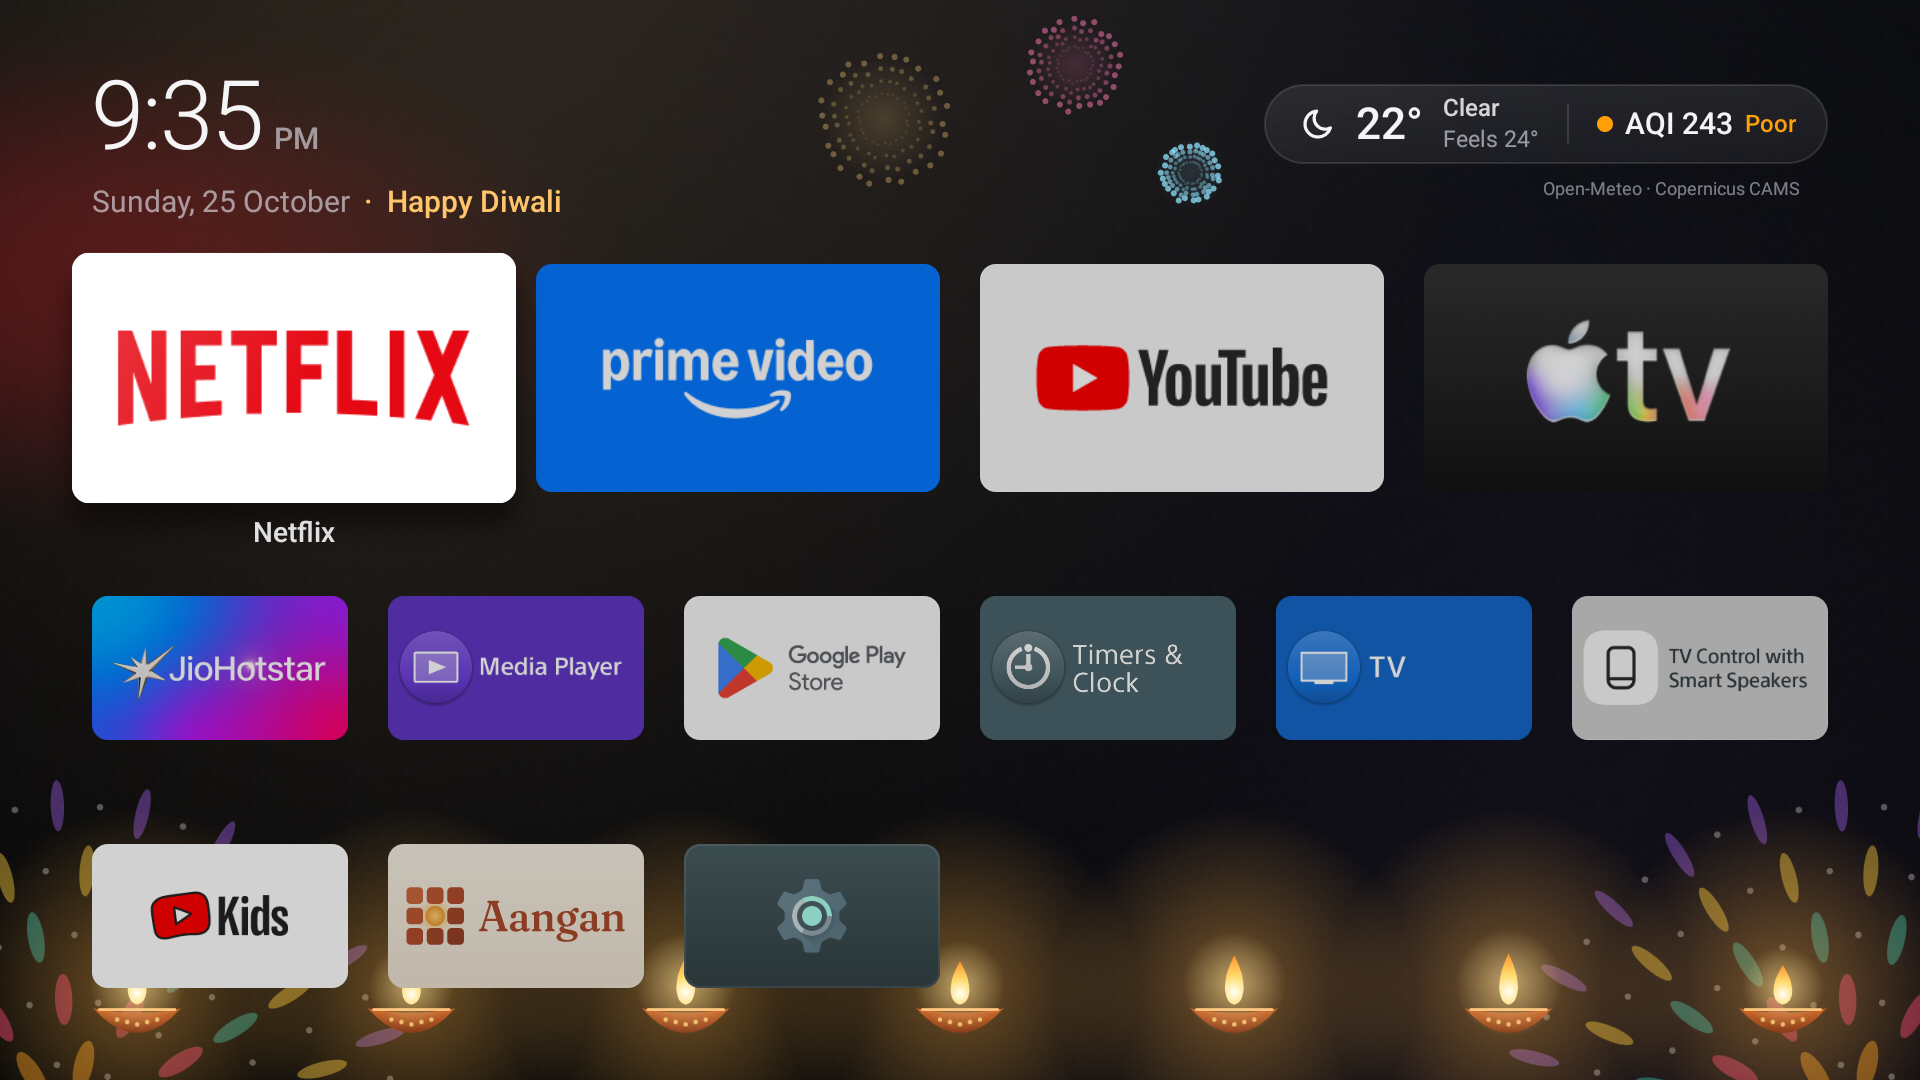
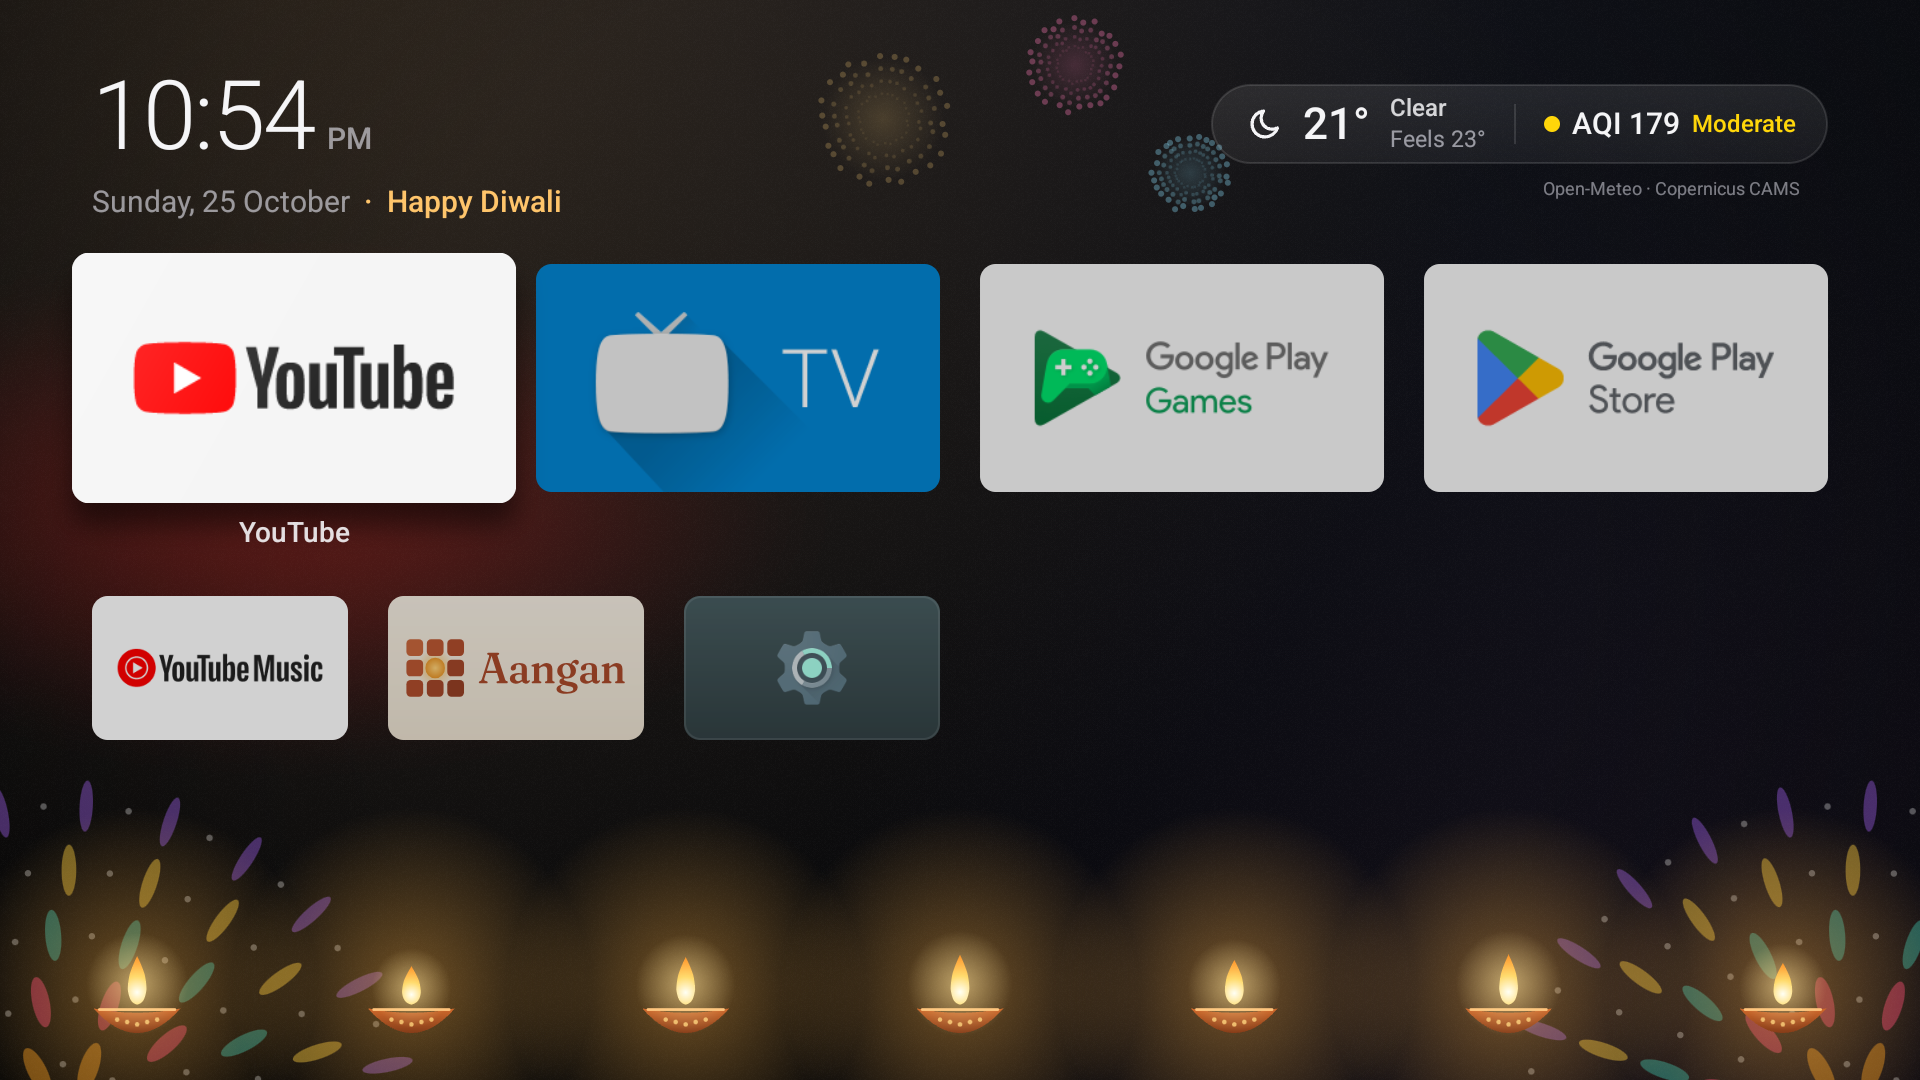
Play screenshots from Google TV 16
The eight Play Store screenshots are retaken on Google's Google TV
emulator running Android 16: home, Today card, Diwali, a birthday, Karwa
Chauth, city search, Settings and the welcome. The only app tiles are
Google's preinstalled apps, so no other companies' logos appear. Sample
family names only. The website keeps its real-TV pictures.

diff --git a/store/README.md b/store/README.md
@@ -117,9 +117,9 @@ Aangan isn't an accessibility tool (`isAccessibilityTool` isn't set), so Play ne
 
 ## Notes for review
 
-- Screenshots show third-party apps' tiles (Netflix, YouTube and so on) because they're installed on
-  the TV. Launchers on Play commonly show them, but if a reviewer objects, retake the screenshots
-  with those apps hidden.
+- The Play screenshots come from Google's Google TV emulator on Android 16, the newest version, so the
+  only app tiles in them are Google's own preinstalled apps (YouTube, Live TV, Play Store, Play Games):
+  no other companies' logos. The website's pictures, from a real TV, show more apps.
 - The app sends no data to its developers and has no server. The privacy policy covers the Open-Meteo
   requests, the phone setup page and the accessibility service in detail.
 

diff --git a/store/listing.md b/store/listing.md
@@ -101,6 +101,6 @@ Weather and air quality by Open-Meteo (CC BY 4.0) and Copernicus CAMS. Festival 
 | App icon, 512 × 512 | `icon-512.png` |
 | Feature graphic, 1024 × 500 | `feature-graphic-1024x500.png` |
 | Android TV banner, 1280 × 720 | `tv-banner-1280x720.png` |
-| Android TV screenshots, 1920 × 1080 | `screenshots/1-home.png` … `8-welcome.png` |
+| Android TV screenshots, 1920 × 1080 | `screenshots/1-home.png` … `8-welcome.png`: home, Today card, Diwali, a birthday, Karwa Chauth, city search, Settings, welcome. Taken on Google TV 16 (Android 16), with only Google's own apps installed. |
 
 All screenshots use sample names (Asha, Kabir, Meera, Dadi), not real people.
